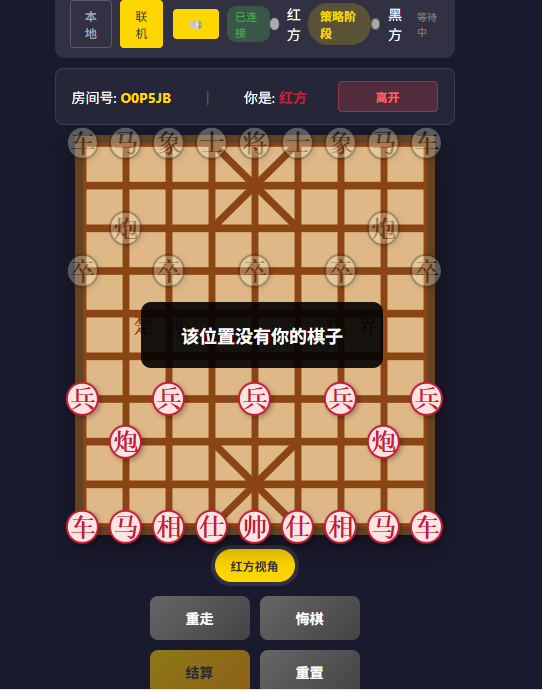
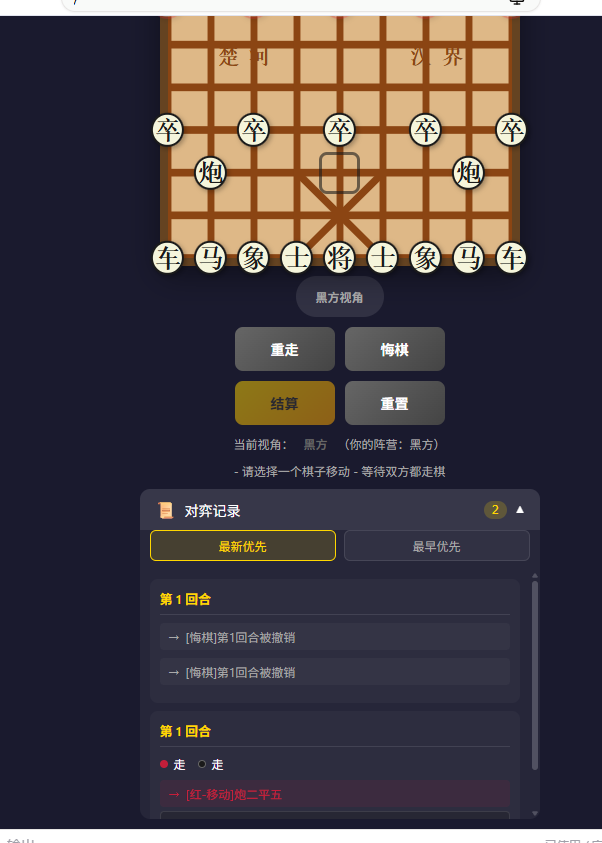
fix: 修复联机模式悔棋后目标框未清除的bug

diff --git a/src/App.tsx b/src/App.tsx
@@ -623,21 +623,12 @@ function App() {
         setValidMoves([]);
       }
       
-      // 新一回合开始时清除目标框（仅当没有lastMoveTo时）
-      if (wasInSettlement && isNowInStrategy) {
-        // 只有当没有新的lastMoveTo时才清除
-        if (!payload.lastRedMoveTo && !payload.lastBlackMoveTo) {
-          setLastMoveTargets({ red: null, black: null });
-        }
-      }
-      
-      // 收到room_state时，如果有lastMoveTo就显示目标框
-      if (payload.lastRedMoveTo || payload.lastBlackMoveTo) {
-        setLastMoveTargets({
-          red: payload.lastRedMoveTo || null,
-          black: payload.lastBlackMoveTo || null,
-        });
-      }
+      // 收到room_state时，更新目标框（无论是否有值都更新）
+      // 如果服务端返回null或undefined，说明需要清除目标框
+      setLastMoveTargets({
+        red: payload.lastRedMoveTo ?? null,
+        black: payload.lastBlackMoveTo ?? null,
+      });
       
       // 更新对弈历史记录
       if (payload.roundHistory && Array.isArray(payload.roundHistory)) {
